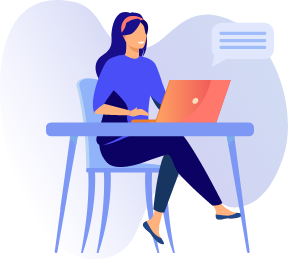
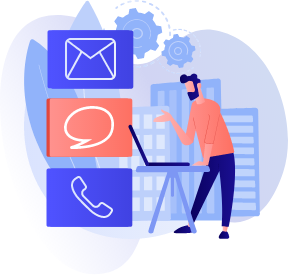
Fixes and improvements

diff --git a/components/services.vue b/components/services.vue
@@ -10,7 +10,7 @@
     >
       <c-flex
         :mt="['40px', '40px', '40px', 0]"
-        :width="['100%', '100%', '100%', '30%', '35%']"
+        :width="['100%', '100%', '100%', '28%', '34%']"
         :justify="['center', 'center', 'center', index % 2 === 0 ? 'flex-end' : 'flex-start']"
       >
         <c-image
@@ -64,19 +64,14 @@ export default {
           image: 'service-custom-software.png',
         },
         {
-          title: 'Staffing',
-          description: 'Lorem ipsum dolor sit amet, consectetur adipiscing elit. Aliquam at porttitor sem.  Aliquam erat volutpat. Donec placerat nisl magna, et faucibus arcu condimentum sed.Lorem ipsum dolor sit amet, consectetur adipiscing elit. Aliquam at porttitor sem.  Aliquam erat volutpat. Donec placerat nisl magna, et faucibus arcu condimentum sed.',
-          image: 'staffing.png',
+          title: 'Maintenance & Support',
+          description: 'We provide ongoing support and maintenance to make sure your software is running well, 24/7. That includes fixing bugs, monitoring your system, maintaining your database, ensuring server security and collecting analytics on an ongoing basis.',
+          image: 'support.png',
         },
         {
           title: 'Consulting',
           description: 'We review your existing software design, test your cloud infrastructure, and audit your code to make sure everything is clean, secure, and effective. This includes an assessment of your security practices and scalability of your software architecture. If your system isn’t looking up to par, we’ll help you fix things–fast.',
           image: 'consulting.png',
-        },
-        {
-          title: 'Maintenance & Support',
-          description: 'We won’t leave you hanging–we provide ongoing support and maintenance to make sure your software is running well, 24/7. That includes fixing bugs, monitoring your system, maintaining your database, ensuring server security and collecting analytics on an ongoing basis.',
-          image: 'support.png',
         },
       ],
     }

diff --git a/components/lorem.vue b/components/lorem.vue
@@ -37,7 +37,7 @@
         data-aos-delay="120"
         data-aos-easing="ease-in-back"
       >
-        Lorem ipsum dolor sit amet, consectetur adipiscing elit. Aliquam at porttitor sem.  Aliquam erat volutpat. Donec placerat nisl magna, et faucibus arcu condimentum sed.Lorem ipsum dolor sit amet, consectetur adipiscing elit.
+        When Mike Jacobsen approached Stackit in 2016, he had a great idea for a SaaS product–and a half-baked project on his hands. Learn how Stackit stepped in to get the failing project back on its feet...and build an effective MVP for It’s Borrowed.
       </c-text>
       <c-flex
         v-for="(a, index) in [1, 2, 3, 4]"
@@ -51,20 +51,22 @@
           Lorem ipsum dolor sit amet, consectetur adipiscing elit. Aliquam at porttitor sem.  Aliquam erat volutpat. Donec
         </c-text>
       </c-flex>
-      <!--      <c-button-->
-      <!--        class="btn-main"-->
-      <!--        right-icon="arrow-forward"-->
-      <!--        rounded="10px"-->
-      <!--        size="lg"-->
-      <!--        font-size="xl"-->
-      <!--        font-weight="400"-->
-      <!--        data-aos="fade-right"-->
-      <!--        data-aos-delay="150"-->
-      <!--        :w="['300px']"-->
-      <!--        :mt="['2.5rem']"-->
-      <!--      >-->
-      <!--        READ CASE STUDY-->
-      <!--      </c-button>-->
+      <router-link to="/case-study">
+        <c-button
+          class="btn-main"
+          right-icon="arrow-forward"
+          rounded="10px"
+          size="lg"
+          font-size="xl"
+          font-weight="400"
+          data-aos="fade-right"
+          data-aos-delay="150"
+          :w="['300px']"
+          :mt="['2.5rem']"
+        >
+          READ CASE STUDY
+        </c-button>
+      </router-link>
     </c-stack>
   </c-flex>
 </template>

diff --git a/components/navbar.vue b/components/navbar.vue
@@ -1,12 +1,12 @@
 <template>
-  <div id="nav" :class="{sticky: active}">
+  <c-box id="nav" :class="{sticky: active}">
     <c-flex
       id="nav-container"
       :class="toggleNavClass()"
       justify="space-between"
       w="100%"
     >
-      <a href="/">
+      <router-link to="/">
         <c-flex
           data-aos="fade-zoom-in"
           data-aos-easing="ease-in-back"
@@ -17,14 +17,18 @@
             Stackit
           </c-heading>
         </c-flex>
-      </a>
+      </router-link>
 
       <c-flex class="nav-links" :font-size="['lg', 'xl']">
-        <a href="/contact">Contact</a>
-        <a href="/case-study">Case Study</a>
+        <router-link to="/contact">
+          Contact
+        </router-link>
+        <router-link to="/case-study">
+          Case Study
+        </router-link>
       </c-flex>
     </c-flex>
-  </div>
+  </c-box>
 </template>
 
 <script>
@@ -91,7 +95,11 @@ a:hover {
   background-color: transparent;
   position: fixed;
   top: 0;
-  z-index: 1000;
+  z-index: 0;
+}
+
+#nav-container {
+  z-index: 1100;
 }
 
 /* have to add the ID nav (#nav) otherwise the backgrnd color won't change as the previous background color is set in an ID and ID trumps class notation */
@@ -100,11 +108,14 @@ a:hover {
   background-color: #0b0f7d;
 }
 
-.nav-links a {
-  border-bottom: 4px #ed4c57 solid;
+.nav-links {
+  a:hover {
+    border-bottom: 4px #ed4c57 solid;
+    opacity: 0.9;
+  }
 
-  &:hover {
-    opacity: 0.7;
+  .nuxt-link-active {
+    border-bottom: 4px #ed4c57 solid;
   }
 }
 </style>

diff --git a/components/we-are-different.vue b/components/we-are-different.vue
@@ -84,12 +84,12 @@ export default {
     return {
       differences: [
         {
-          title: 'Expertise with Failures',
-          description: 'We hold all our code to the highest standards. That means relying on development practices such as iterative and incremental development, test-driven development, and CLEAN code.',
-        },
-        {
           title: 'Coding Quality',
           description: 'We can rescue your failing software project. With skill and finesse, we can transition your software out of the wrong hands and get it back on its feet.',
+        },
+        {
+          title: 'Expertise with Failures',
+          description: 'We hold all our code to the highest standards. That means relying on development practices such as iterative and incremental development, test-driven development, and CLEAN code.',
         },
         {
           title: 'Care for Our Clients',

diff --git a/components/contact-dialog.vue b/components/contact-dialog.vue
@@ -126,10 +126,10 @@ export default {
       isSent: false,
       isLoading: false,
       form: {
-        name: 'Isaias',
-        phone: '4424671860',
-        email: 'isaias@stackitgroup.com',
-        message: 'Hello world!!',
+        name: '',
+        phone: '',
+        email: '',
+        message: '',
       },
     }
   },

diff --git a/pages/contact.vue b/pages/contact.vue
@@ -114,10 +114,10 @@ export default {
       isSent: false,
       isLoading: false,
       form: {
-        name: 'Isaias',
-        phone: '4424671860',
-        email: 'isaias@stackitgroup.com',
-        message: 'Hello world!!',
+        name: '',
+        phone: '',
+        email: '',
+        message: '',
       },
     }
   },

diff --git a/layouts/default.vue b/layouts/default.vue
@@ -4,8 +4,8 @@
       <CColorModeProvider>
         <CBox font-family="body" as="main">
           <CReset />
-          <navbar />
           <Nuxt class="app-content" />
+          <navbar />
           <st-footer />
         </CBox>
       </CColorModeProvider>

diff --git a/components/banner.vue b/components/banner.vue
@@ -13,7 +13,6 @@
       :font-size="['3xl', '4xl', '5xl', '6xl']"
       max-w="1094px"
       text-align="center"
-      z-index="1"
       data-aos="fade-zoom-in"
       data-aos-easing="ease-in-back"
       data-aos-delay="100"
